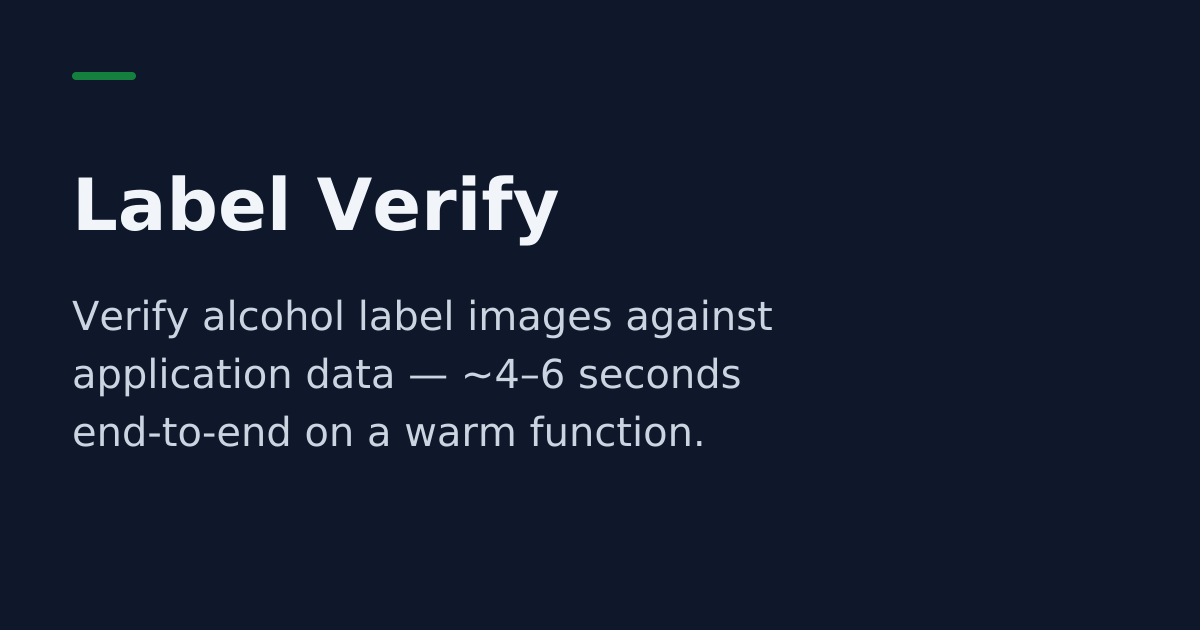
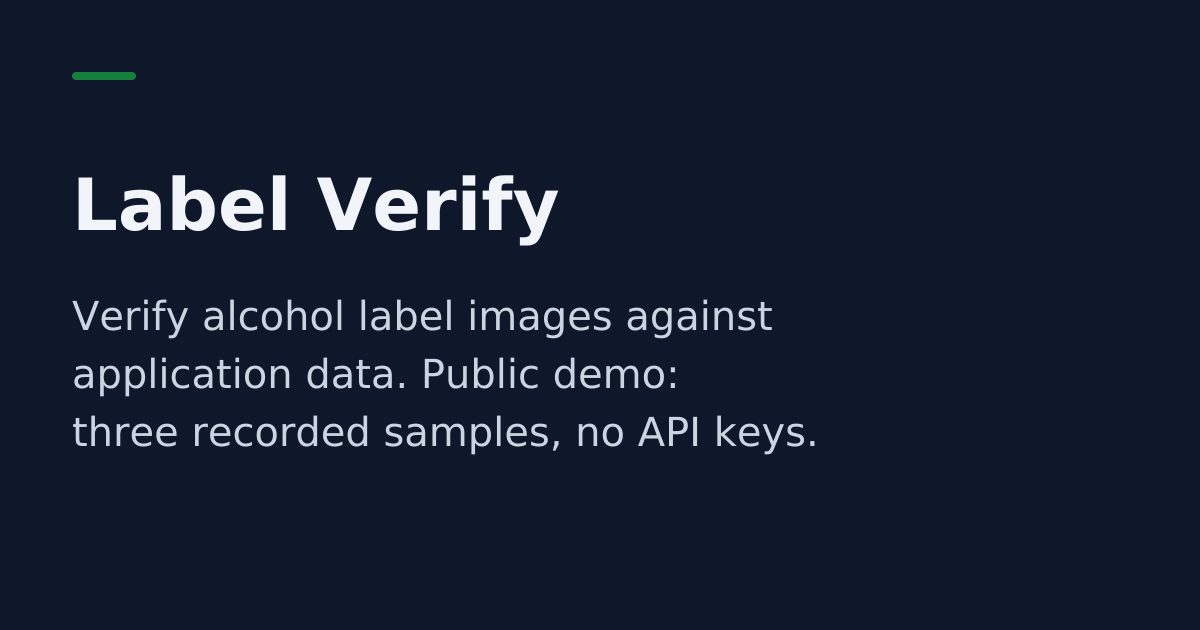
Share image says offline demo; harden initial-focus e2e (PR #86 review nits) (#87)
- share.png no longer claims "~4-6 seconds end-to-end on a warm function".
  The public demo is offline, so lines 2-3 now read "application data.
  Public demo: / three recorded samples, no API keys." Title, colours,
  positions and the outlined DejaVu Sans glyphs are unchanged (the
  outliner reproduces the existing first line byte for byte).
- e2e/initial-focus.spec.ts waits for hydration (the Reviewer badge
  button replaces its placeholder in the same passive-effect flush as
  UploadZone's mount effects, then two animation frames) instead of a
  fixed 500 ms. New iPhone 13 UA case: no focus or scroll on load, open
  moves focus to the first menuitem, Escape returns it to the trigger.
- wave34 Escape unit test now asserts focus returns to the trigger.
- favicon.ico lists the 32 px image first, so the link reports 32x32.
  New 512 px maskable manifest icon with the glyph inside the 40 % safe
  zone (scripts/icon-maskable.svg, scripts/generate-maskable-icon.mjs).

Changed region(s): [[0.0617, 0.6635, 0.6783, 0.7238], [0.3392, 0.573, 0.6167, 0.6333]]

diff --git a/e2e/initial-focus.spec.ts b/e2e/initial-focus.spec.ts
@@ -1,8 +1,35 @@
-import { test, expect } from "@playwright/test";
+import { test, expect, devices, type Page } from "@playwright/test";
 
 // A fresh page load must not move focus or scroll. An earlier effect
 // focused the "Choose files" button on mount, which scrolled a 390 px
 // wide phone about 750 px down, past the offline notice and the samples.
+
+const CHOOSE_FILES =
+  /Choose files: upload label images, drag and drop, or press Enter to browse/i;
+
+// Readiness signal instead of a fixed wait. The reviewer badge renders a
+// placeholder until its mount effect runs, then swaps in the real
+// "Reviewer: …" button. React flushes the passive effects of one hydration
+// commit together, so once that button exists every mount effect on the
+// page (including UploadZone's) has run. Two animation frames then let
+// any focus-driven scroll settle before the state is read.
+async function waitForHydration(page: Page): Promise<void> {
+  await expect(page.getByRole("button", { name: /^Reviewer:/ })).toBeVisible();
+  await page.evaluate(
+    () =>
+      new Promise<void>((resolve) =>
+        requestAnimationFrame(() => requestAnimationFrame(() => resolve())),
+      ),
+  );
+}
+
+async function focusAndScroll(page: Page) {
+  return page.evaluate(() => ({
+    scrollY: window.scrollY,
+    active: document.activeElement?.tagName ?? null,
+  }));
+}
+
 for (const viewport of [
   { width: 390, height: 844 },
   { width: 1440, height: 900 },
@@ -10,13 +37,44 @@ for (const viewport of [
   test(`no focus or scroll on load at ${viewport.width}px`, async ({ page }) => {
     await page.setViewportSize(viewport);
     await page.goto("/");
-    await page.waitForLoadState("load");
-    await page.waitForTimeout(500);
-    const state = await page.evaluate(() => ({
-      scrollY: window.scrollY,
-      active: document.activeElement?.tagName ?? null,
-    }));
+    await waitForHydration(page);
+    const state = await focusAndScroll(page);
     expect(state.scrollY).toBe(0);
     expect(state.active).toBe("BODY");
   });
 }
+
+test.describe("iOS user agent (iPhone 13)", () => {
+  // The iPhone 13 descriptor defaults to WebKit; keep the project's
+  // browser and take only the viewport, UA, touch and scale settings.
+  // eslint-disable-next-line @typescript-eslint/no-unused-vars
+  const { defaultBrowserType, ...iphone } = devices["iPhone 13"];
+  test.use(iphone);
+
+  test("no focus or scroll on load; chooser moves focus in and back out", async ({
+    page,
+  }) => {
+    await page.goto("/");
+    const trigger = page.getByRole("button", { name: CHOOSE_FILES });
+    // On iOS the trigger becomes a menu button after its mount effect runs.
+    await expect(trigger).toHaveAttribute("aria-haspopup", "menu");
+    await waitForHydration(page);
+
+    const onLoad = await focusAndScroll(page);
+    expect(onLoad.scrollY).toBe(0);
+    expect(onLoad.active).toBe("BODY");
+
+    await trigger.click();
+    await expect(trigger).toHaveAttribute("aria-expanded", "true");
+    const firstItem = page
+      .getByRole("menu", { name: /Pick a source for the upload/i })
+      .getByRole("menuitem")
+      .first();
+    await expect(firstItem).toBeFocused();
+
+    await page.keyboard.press("Escape");
+    await expect(trigger).toHaveAttribute("aria-expanded", "false");
+    await expect(page.getByRole("menu")).toHaveCount(0);
+    await expect(trigger).toBeFocused();
+  });
+});

diff --git a/src/tests/ui/wave34-upload-integration.test.tsx b/src/tests/ui/wave34-upload-integration.test.tsx
@@ -177,6 +177,8 @@ describe("Wave-34 → 35l iOS picker fix — universal button opens chooser on i
       );
       // Menu unmounted.
       expect(screen.queryByRole("menu")).toBeNull();
+      // Focus is back on the trigger (WAI-ARIA menu button pattern).
+      expect(document.activeElement).toBe(trigger);
     } finally {
       restore();
     }
